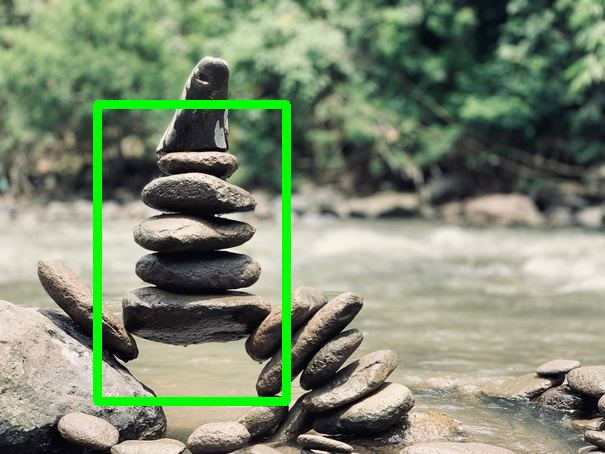
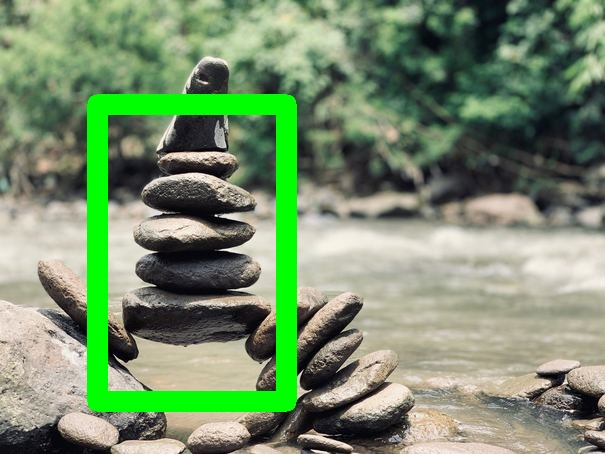
improved README

Changed region(s): [[0.119, 0.185, 0.5058, 0.9251]]

diff --git a/src/discolight/augmentations/bbox_utilities/bbox_utilities.py b/src/discolight/augmentations/bbox_utilities/bbox_utilities.py
@@ -13,7 +13,7 @@ def draw_rect(img, bboxes, color=None, stroke=None):
         pt1 = int(pt1[0]), int(pt1[1])
         pt2 = int(pt2[0]), int(pt2[1])
         stroke = int(max(img.shape[:2]) / 200) if stroke is None else stroke
-        img = cv2.rectangle(img.copy(), pt1, pt2, color, stroke)
+        img = cv2.rectangle(img.copy(), pt1, pt2, color, 20)
     return img
 
 
